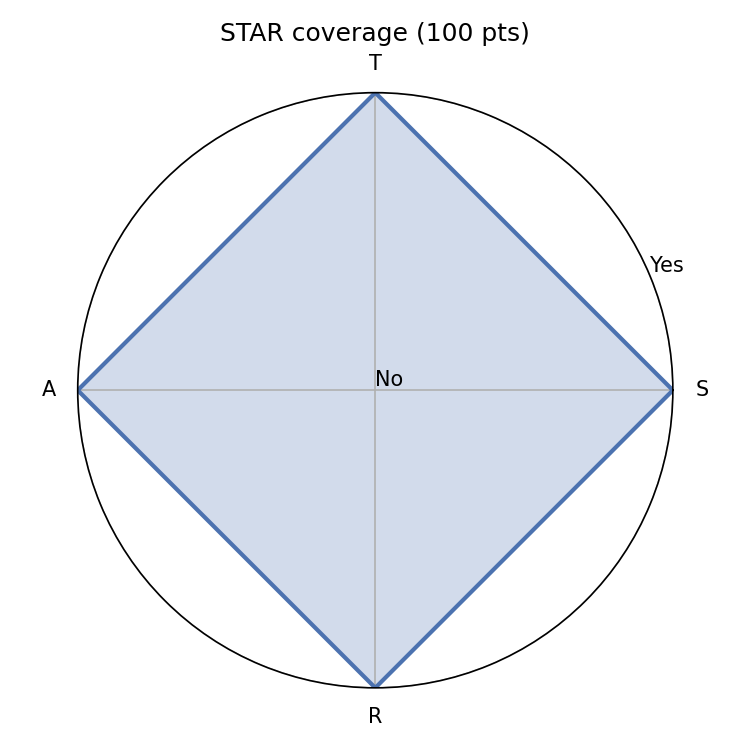
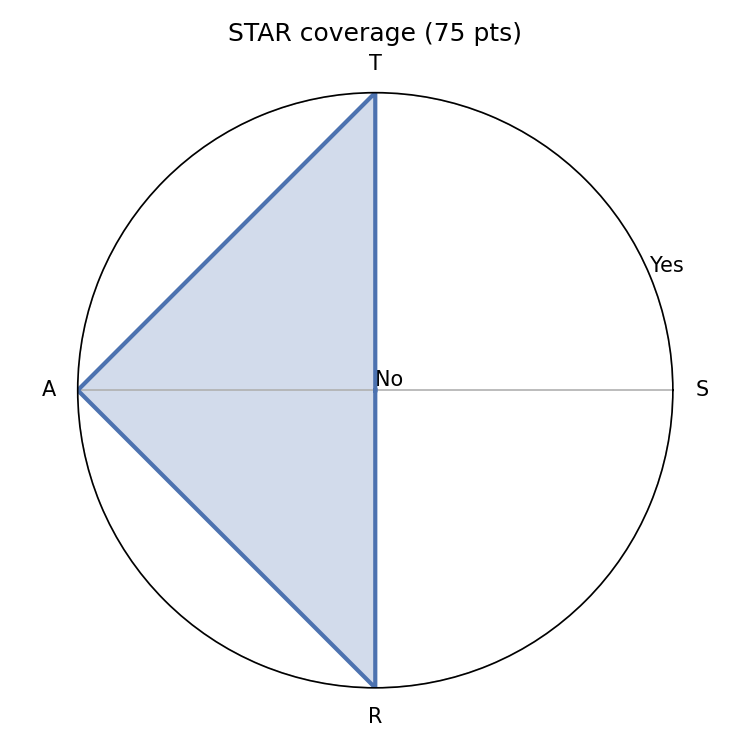
09,10 수정

Changed region(s): [[0.4907, 0.1227, 0.8893, 0.92], [0.276, 0.0307, 0.7053, 0.0613]]

diff --git a/models/role02_star/star_label_model.py b/models/role02_star/star_label_model.py
@@ -17,6 +17,7 @@ PROJECT_ROOT = Path(__file__).resolve().parents[2]
 LABELED_SENTENCE_PATH = PROJECT_ROOT / "data" / "labeled" / "jobkorea_star_full_labeled_sentence_dataset.csv"
 ARTIFACT_DIR = PROJECT_ROOT / "models" / "role02_star" / "artifacts"
 STAR_MODEL_PATH = ARTIFACT_DIR / "star_sentence_classifier.joblib"
+STAR_DECISION_THRESHOLD = 0.92
 
 
 def load_labeled_sentence_rows(path: Path = LABELED_SENTENCE_PATH) -> list[dict]:
@@ -103,7 +104,7 @@ def load_star_model(path: Path = STAR_MODEL_PATH) -> Pipeline:
     return joblib.load(path)
 
 
-def predict_sentence_labels(model: Pipeline, sentences: list[str], threshold: float = 0.5) -> list[dict]:
+def predict_sentence_labels(model: Pipeline, sentences: list[str], threshold: float = STAR_DECISION_THRESHOLD) -> list[dict]:
     texts = [normalize_text(sentence) for sentence in sentences]
     if not texts:
         return []
@@ -119,13 +120,14 @@ def predict_sentence_labels(model: Pipeline, sentences: list[str], threshold: fl
                 "sentence": sentence,
                 "checklist": checklist,
                 "confidence": confidence,
+                "decision_threshold": threshold,
                 "display": format_checklist(checklist),
             }
         )
     return results
 
 
-def score_star_with_model(text: str, model: Pipeline, threshold: float = 0.5) -> dict:
+def score_star_with_model(text: str, model: Pipeline, threshold: float = STAR_DECISION_THRESHOLD) -> dict:
     sentence_predictions = predict_sentence_labels(model, split_sentences(text), threshold=threshold)
     checklist = {
         code: any(prediction["checklist"].get(code, False) for prediction in sentence_predictions)
@@ -153,8 +155,9 @@ def score_star_with_model(text: str, model: Pipeline, threshold: float = 0.5) ->
         "evidence": evidence,
         "component_scores": component_scores,
         "max_score": 100,
+        "decision_threshold": threshold,
         "sentence_predictions": sentence_predictions,
-        "scoring_note": "라벨링된 STAR 문장 데이터셋으로 학습한 multi-label 모델 예측입니다.",
+        "scoring_note": f"라벨링된 STAR 문장 데이터셋으로 학습한 multi-label 모델 예측입니다. threshold={threshold}",
         "feedback": build_feedback(checklist, missing),
     }
 

diff --git a/models/role02_star/role04_output.py b/models/role02_star/role04_output.py
@@ -14,6 +14,7 @@ if str(PROJECT_ROOT) not in sys.path:
 from models.role02_star.head_first_classifier import classify_head_first
 from models.role02_star.star_label_model import (
     STAR_CODES,
+    STAR_DECISION_THRESHOLD,
     STAR_MODEL_PATH,
     load_star_model,
     score_star_with_model,
@@ -76,7 +77,12 @@ def score_experience(answer: str, star_model: Any | None = None) -> dict:
     if star_model is not None:
         return score_star_with_model(answer, star_model)
     if STAR_MODEL_PATH.exists():
-        return score_star_with_model(answer, load_star_model(STAR_MODEL_PATH))
+        try:
+            return score_star_with_model(answer, load_star_model(STAR_MODEL_PATH))
+        except Exception as exc:
+            fallback = score_star_completeness(answer)
+            fallback["scoring_note"] = f"학습 모델 artifact 로드 실패로 규칙 기반 STAR scorer를 사용했습니다: {type(exc).__name__}"
+            return fallback
     fallback = score_star_completeness(answer)
     fallback["scoring_note"] = "학습 모델 artifact가 없어 규칙 기반 STAR scorer를 사용했습니다."
     return fallback
@@ -96,6 +102,7 @@ def build_core_claim_metric(head: dict) -> dict:
             "first_sentence": head.get("first_sentence", ""),
             "matched_keywords": head.get("matched_keywords", []),
             "bad_start_keywords": head.get("bad_start_keywords", []),
+            "decision_boundary": head.get("decision_boundary", 50),
             "model_type": "rule_based_binary",
         },
     }
@@ -119,6 +126,7 @@ def build_experience_metric(star: dict) -> dict:
             "component_scores": star.get("component_scores", {}),
             "missing": star.get("missing", []),
             "evidence": star.get("evidence", {}),
+            "decision_threshold": star.get("decision_threshold", STAR_DECISION_THRESHOLD),
             "model_type": "trained_multilabel_sentence_classifier",
             "scoring_note": star.get("scoring_note", ""),
         },

diff --git a/models/role02_star/run_role02_evaluation.py b/models/role02_star/run_role02_evaluation.py
@@ -21,6 +21,7 @@ if str(PROJECT_ROOT) not in sys.path:
 from models.role02_star.star_label_model import (
     LABELED_SENTENCE_PATH,
     STAR_CODES,
+    STAR_DECISION_THRESHOLD,
     STAR_MODEL_PATH,
     load_labeled_sentence_rows,
     parse_star_label,
@@ -35,6 +36,9 @@ METRICS_PATH = PROJECT_ROOT / "data" / "processed" / "role02_eval_metrics.csv"
 FIGURE_DIR = PROJECT_ROOT / "models" / "role02_star" / "figures"
 METRICS_FIGURE_PATH = FIGURE_DIR / "role02_precision_recall_f1.png"
 CONFUSION_FIGURE_PATH = FIGURE_DIR / "role02_confusion_matrices.png"
+THRESHOLD_SUFFIX = str(int(round(STAR_DECISION_THRESHOLD * 100))).zfill(2)
+METRICS_THRESHOLD_FIGURE_PATH = FIGURE_DIR / f"role02_precision_recall_f1_threshold_{THRESHOLD_SUFFIX}.png"
+CONFUSION_THRESHOLD_FIGURE_PATH = FIGURE_DIR / f"role02_confusion_matrices_threshold_{THRESHOLD_SUFFIX}.png"
 
 
 def main() -> None:
@@ -53,6 +57,8 @@ def main() -> None:
     write_csv(METRICS_PATH, metric_rows)
     plot_metric_bars(metric_rows, METRICS_FIGURE_PATH)
     plot_confusion_matrices(metric_rows, CONFUSION_FIGURE_PATH)
+    plot_metric_bars(metric_rows, METRICS_THRESHOLD_FIGURE_PATH)
+    plot_confusion_matrices(metric_rows, CONFUSION_THRESHOLD_FIGURE_PATH)
 
     train_urls = {row["url"] for row in train_rows}
     test_urls = {row["url"] for row in test_rows}
@@ -64,6 +70,8 @@ def main() -> None:
     print(f"평가 지표: {METRICS_PATH.relative_to(PROJECT_ROOT)}")
     print(f"PRF 시각화: {METRICS_FIGURE_PATH.relative_to(PROJECT_ROOT)}")
     print(f"Confusion matrix: {CONFUSION_FIGURE_PATH.relative_to(PROJECT_ROOT)}")
+    print(f"Threshold PRF 시각화: {METRICS_THRESHOLD_FIGURE_PATH.relative_to(PROJECT_ROOT)}")
+    print(f"Threshold confusion matrix: {CONFUSION_THRESHOLD_FIGURE_PATH.relative_to(PROJECT_ROOT)}")
     print()
     print_table(metric_rows)
 

diff --git a/models/role02_star/run_role02_demo.py b/models/role02_star/run_role02_demo.py
@@ -11,6 +11,7 @@ from models.role02_star.head_first_rules import analyze_head_first
 from models.role02_star.head_first_classifier import classify_head_first
 from models.role02_star.star_label_model import (
     LABELED_SENTENCE_PATH,
+    STAR_DECISION_THRESHOLD,
     STAR_MODEL_PATH,
     load_labeled_sentence_rows,
     save_star_model,
@@ -66,6 +67,7 @@ status_path = plot_role02_requirement_status(
 print(f"[데이터셋] {DATASET_PATH.relative_to(PROJECT_ROOT)}")
 print(f"[STAR 라벨셋] {LABELED_SENTENCE_PATH.relative_to(PROJECT_ROOT)}")
 print(f"STAR 학습 문장 수: {len(labeled_rows)}")
+print(f"STAR decision threshold: {STAR_DECISION_THRESHOLD}")
 print(f"STAR 모델: {STAR_MODEL_PATH.relative_to(PROJECT_ROOT)}")
 print(f"전체 행 수: {len(rows)}")
 print(f"답변 있는 행 수: {len(answer_rows)}")
@@ -80,7 +82,7 @@ print_table(
         {
             "지표": "핵심 주장 명확성",
             "결과": head["display"],
-            "점수": head["is_head_first"],
+            "점수": head["head_first_score"],
             "근거/피드백": head["reason"],
         },
         {
@@ -134,7 +136,7 @@ def score_answer_row(row, index):
         "question_no": row.get("question_no", ""),
         "question": row.get("question", ""),
         "core_claim_display": head_result["display"],
-        "core_claim_score": head_result["is_head_first"],
+        "core_claim_score": head_result["head_first_score"],
         "core_claim_reason": head_result["reason"],
         "experience_display": star_result["display"],
         "experience_score": star_result["score"],

diff --git a/models/role02_star/head_first_rules.py b/models/role02_star/head_first_rules.py
@@ -12,6 +12,8 @@ BAD_START_KEYWORDS = [
     "당시", "예전에", "고등학교",
 ]
 
+CORE_CLAIM_DECISION_BOUNDARY = 50
+
 
 def split_sentences(text):
     sentences = re.split(r"(?<=[.!?。])\s+|(?<=다\.)\s+|(?<=요\.)\s+", str(text).strip())
@@ -37,7 +39,8 @@ def analyze_head_first(text):
     first = sentences[0]
     head_score = sum(1 for keyword in HEAD_KEYWORDS if keyword in first)
     bad_score = sum(1 for keyword in BAD_START_KEYWORDS if keyword in first)
-    is_clear = int(head_score >= 1 and head_score > bad_score)
+    head_first_score = calc_core_claim_score(head_score, bad_score)
+    is_clear = int(head_first_score >= CORE_CLAIM_DECISION_BOUNDARY)
 
     return {
         "metric": "핵심 주장 명확성",
@@ -45,12 +48,18 @@ def analyze_head_first(text):
         "core_claim_clear": bool(is_clear),
         "display": "✅" if is_clear else "❌",
         "is_head_first": is_clear,
-        "head_first_score": 100 if is_clear else 0,
+        "head_first_score": head_first_score,
         "head_score": head_score,
         "bad_score": bad_score,
+        "decision_boundary": CORE_CLAIM_DECISION_BOUNDARY,
         "reason": (
             "첫 문장에 핵심 주장 신호가 있습니다."
             if is_clear
             else "첫 문장에 핵심 역량, 성과, 문제 해결 경험을 더 직접적으로 제시하세요."
         ),
     }
+
+
+def calc_core_claim_score(head_score: int, bad_score: int) -> int:
+    score = 30 + min(head_score, 4) * 20 - min(bad_score, 3) * 20
+    return max(0, min(100, score))

diff --git a/models/role02_star/head_first_classifier.py b/models/role02_star/head_first_classifier.py
@@ -27,6 +27,7 @@ def classify_head_first(text: str, topic_keywords: list[str] | None = None) -> d
             "matched_keywords": [],
             "bad_start_keywords": [],
             "head_first_score": 0,
+            "decision_boundary": base.get("decision_boundary", 50),
             "reason": "문장이 없습니다.",
         }
 
@@ -46,6 +47,7 @@ def classify_head_first(text: str, topic_keywords: list[str] | None = None) -> d
         "matched_keywords": matches,
         "bad_start_keywords": bad_matches,
         "head_first_score": base["head_first_score"],
+        "decision_boundary": base.get("decision_boundary", 50),
         "reason": base["reason"],
     }
 

diff --git a/models/role02_star/README.md b/models/role02_star/README.md
@@ -17,11 +17,11 @@
 | A | Action | 실제 수행 행동 설명 문장 | 25 |
 | R | Result | 결과, 성과, 변화 설명 문장 | 25 |
 
-라벨값은 `S`, `T`, `A`, `R`, `X`뿐 아니라 `T+A`, `S+T+A+R`처럼 복수 라벨도 포함하므로, 단일 클래스가 아니라 S/T/A/R 각각의 이진 분류로 평가한다. 답변 단위 점수는 문장별 예측 결과를 모아 하나라도 검출된 요소를 충족으로 본다.
+라벨값은 `S`, `T`, `A`, `R`, `X`뿐 아니라 `T+A`, `S+T+A+R`처럼 복수 라벨도 포함하므로, 단일 클래스가 아니라 S/T/A/R 각각의 이진 분류로 평가한다. 답변 단위 점수는 문장별 예측 결과를 모아 하나라도 검출된 요소를 충족으로 본다. STAR 문장 예측은 과검출을 줄이기 위해 threshold 0.92를 사용한다.
 
 ## 3. 핵심 주장 명확성 탐지 규칙
 
-첫 문장이 핵심 역량, 성과, 문제 해결 경험을 요약하면 핵심 주장 명확성 충족으로 판단한다.
+첫 문장이 핵심 역량, 성과, 문제 해결 경험을 요약하면 핵심 주장 명확성 충족으로 판단한다. 핵심 주장 신호와 약한 시작 신호를 누적 점수화하고, 기존보다 완화된 50점 decision boundary로 ✅/❌를 출력한다.
 
 - 긍정 신호: 역량, 경험, 강점, 성과, 해결, 개선, 기여, 자신 있습니다, 갖추고 있습니다
 - 약한 시작 신호: 어렸을 때, 대학교, 처음에는, 당시, 예전에, 고등학교
